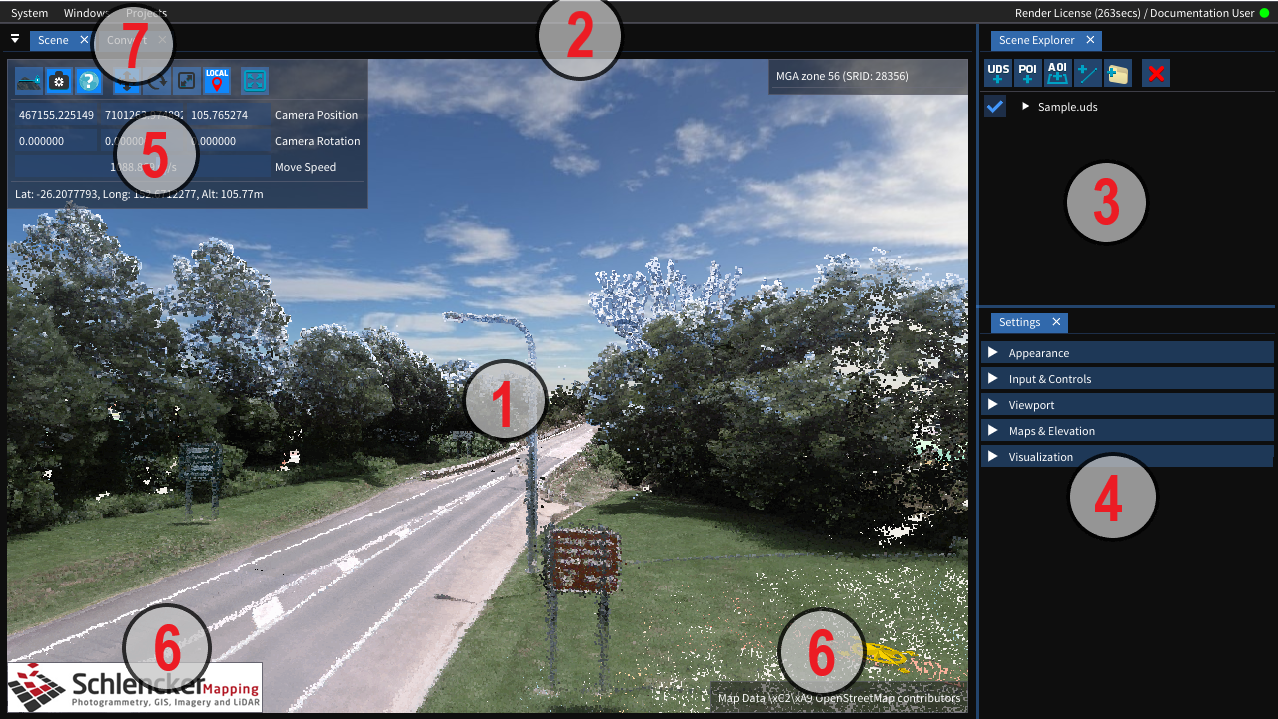
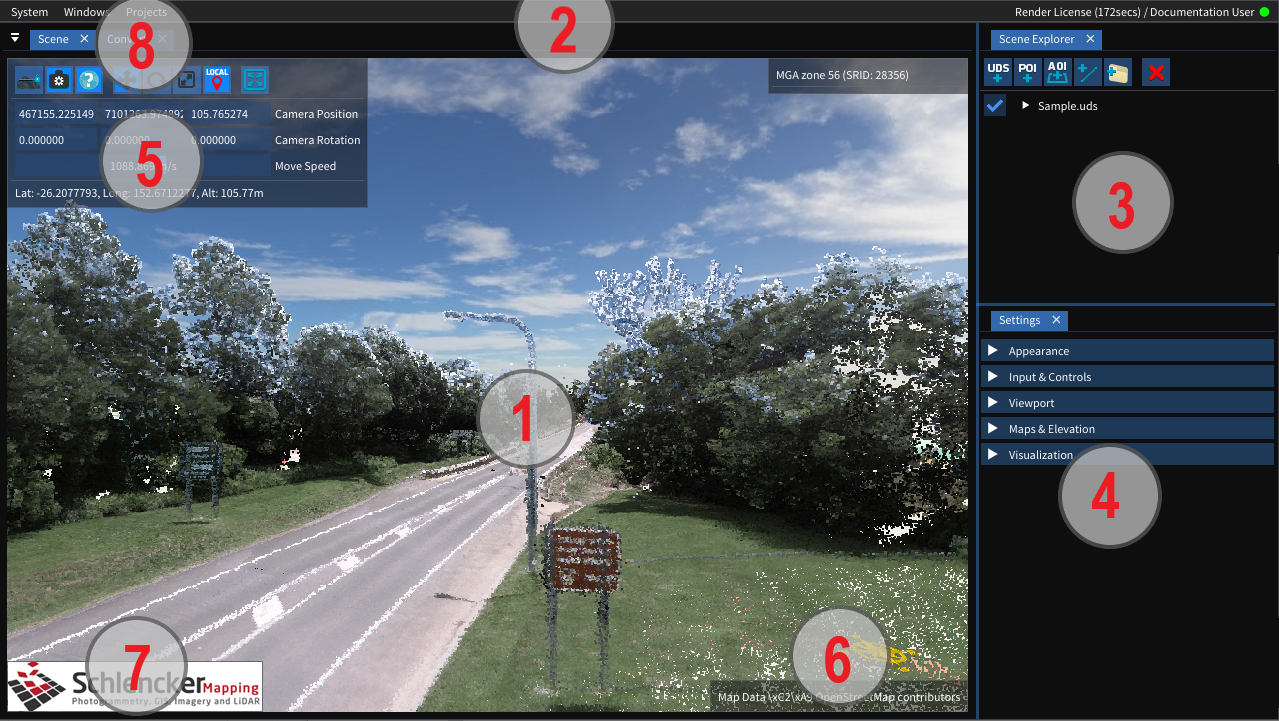
Add hotkey information to docs, changes as per comments

diff --git a/docs/UserGuide.md b/docs/UserGuide.md
@@ -64,17 +64,34 @@ Mouse Controls:
   > TIP: If you prefer scroll wheel to change the move speed like Euclideon Geoverse MDM does, that option is available in the Mouse Pivot bindings in settings as well.
 
 Default Keyboard Controls (with the "Scene" window focussed):
-- `W` and `S` strafe the camera forward and backward at the current Camera Move Speed
-- `A` and `D` strafe the camera left and right at the current Camera Move Speed
-- `R` and `F` strafe the camera up and down at the current Camera Move Speed
-- `Spacebar` locks altitude allowing user to move forward without it directly adjusting camera height (Z-axis lock)
+- `W` and `S` strafe the camera forward and backward at the current Camera Move Speed.
+- `A` and `D` strafe the camera left and right at the current Camera Move Speed.
+- `R` and `F` strafe the camera up and down at the current Camera Move Speed.
+- `Spacebar` locks altitude allowing user to move forward without it directly adjusting camera height (Z-axis lock).
+
+#### Hotkeys
+- `F5` Toggles presentation mode, hiding the interface and going fullscreen.
+
+##### Gizmo Hotkeys
+- `B` Sets the gizmo to translation mode, allowing user to move objects.
+- `N` Sets the gizmo to rotation mode, allowing user to rotate objects.
+- `M` Sets the gizmo to scale mode, allowing user to resize objects.
+- `C` Toggles the gizmo between local and world space coordinates.
+
+##### Scene Explorer Hotkeys
+- `Ctrl+U` Opens popup for loading UDS files.
+- `Delete` Removes selected item(s) from the scene explorer.
 
 ### 2. Menu & Status Bar
+
 ![Status Bar](images/statusbar.png)
+
 The menu bar consists of 2 sections, the left section with menu drop downs and the right section with status information.
 
 #### System Menu
+
 ![System Menu](images/systemdown.png)
+
 The system menu has a number of system related functions.
 
 
@@ -117,6 +134,7 @@ This pane shows you the assets currently in your scene, allows user to add UDS f
 There are a number of ways to add models to the scene.
 
 ![Loaded Model](images/sceneexplorer.png)
+
 ![Model Information](images/sceneexplorer2.png)
 
 1. Drag and Drop: On devices with folder exploring you can drag a file from your file explorer and drop it in the Euclideon Vault Client window to add the model to the scene.
@@ -173,18 +191,22 @@ Visualization
 > TIP: If you ever change a setting and can't recall what you've changed, you can reset _all_ settings by going to the "System" menu and selecting "Restore Defaults", or you can reset individual groups of settings by right clicking their header and selecting "Restore Defaults"
 
 ### 5. GIS / Scene Info
+
 ![Camera Information](images/camerabox.png)
+
   - Scene contains several key functions, such as X,Y,Z camera coordinates, camera rotation coordinates and camera movement speed. Toggled by 'Show Camera Button'.
   - Displays Latitude and Longitude, along with current camera altitude.
   - Several clickboxes allow Lock Altitude (spacebar default), Show Camera Information, Show projection information (Displays SRID, MGA zones information).
   - Gismo Translate, Gizmo Rotate, Gizmo Scale and Gizmo local space buttons
 
-### 6. Copyright, Watermark & Compass
+### 6. Copyright & Compass
   - Adding Copyright Data can be done in the metadata subtab during converting
   - Compass by default is on, Appearance pane contains on/off checkbox
+
+### 7. Watermark
   - Watermarks can be viewed on each UDS file, by clicking on the UDS file in the Scene Explorer and then viewing the [Watermark] identification tag
 
-### 7. Convert Tab
+### 8. Convert Tab
 Converting to UDS file format can be done from within the Euclideon Vault Client as well. Loading a supported pointcloud format will open the "Convert" window if it isn't already open. A quick 'pre-parse' is done to detect the file format, supported attributes etc. By loading the start of the file, this stage also does an estimate of the total number of points the file has.
   - Supported file conversion formats (?????).
 > If you aren't able to find the convert tab, it can be displayed from the `Windows > Convert` flag, once selected the convert option will be displayed next to the Scene tab.
